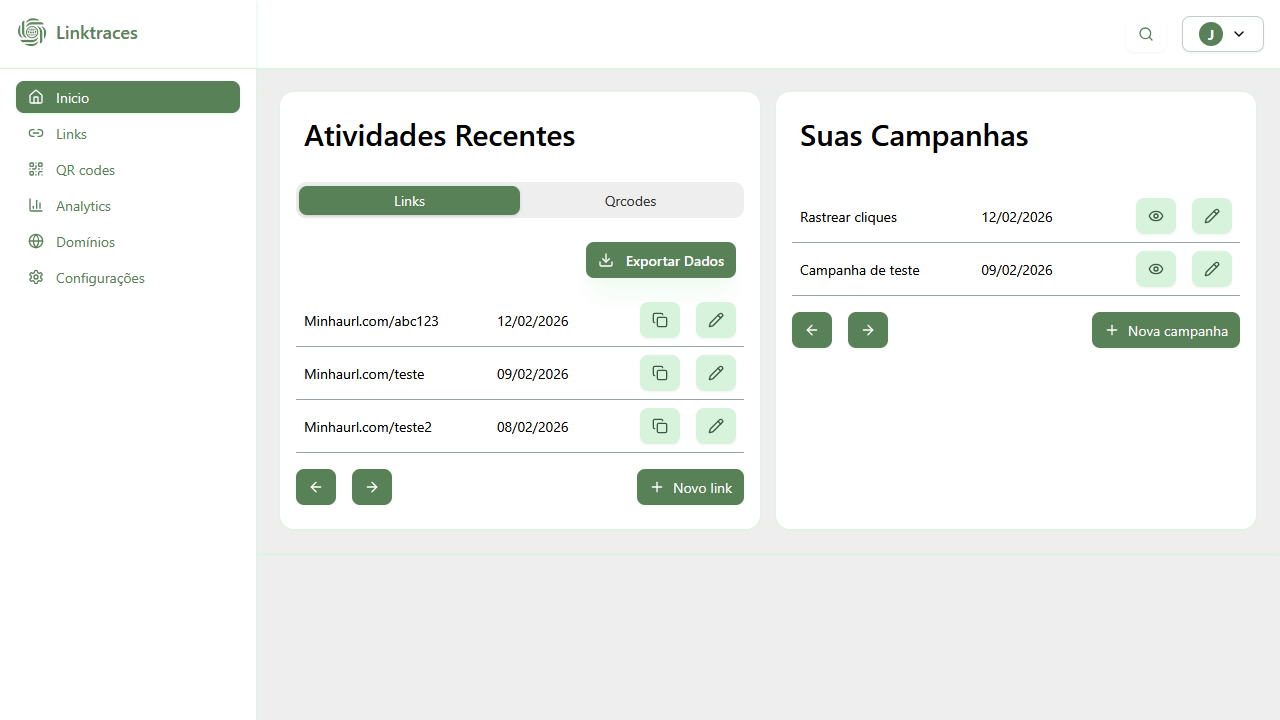
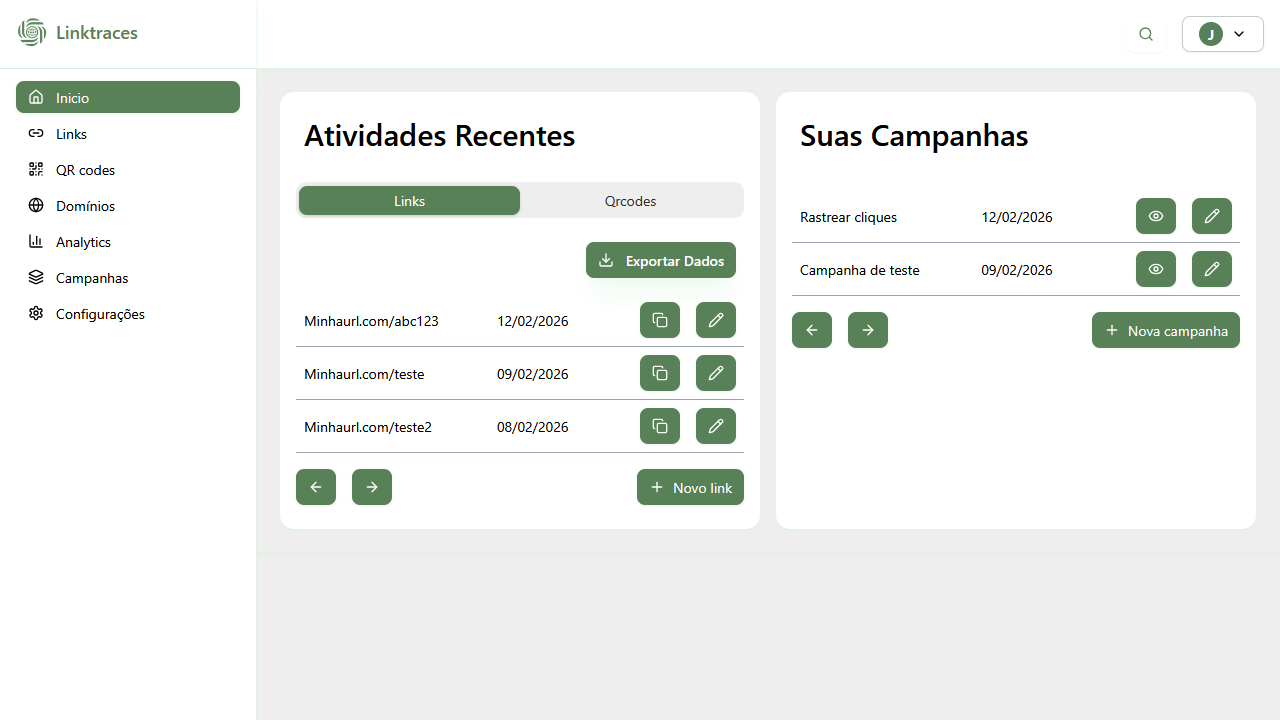
Update Dashboard

diff --git a/app/dashboard/campaigns/page.tsx b/app/dashboard/campaigns/page.tsx
@@ -1,0 +1,104 @@
+'use client';
+
+import { useRouter } from 'next/navigation';
+import { Pencil, Plus } from 'lucide-react';
+import { Button } from '@/components/ui/button';
+import { Card, CardContent, CardHeader } from '@/components/ui/card';
+import {
+  Table,
+  TableBody,
+  TableCell,
+  TableHead,
+  TableHeader,
+  TableRow
+} from '@/components/ui/table';
+import { NavbarDashboard } from '@/components/Dashboard/navbar-dashboard';
+import { NewCampaig } from '@/components/CampaignsComponents/NewCampaig';
+import { EditCampaig } from '@/components/CampaignsComponents/EditCampaig';
+
+const mycampaigns = [
+  {
+    Title: 'Campanha 1',
+    paymentStatus: 'Desativado',
+    paymentMethod: 'Luiz, matheus, carla, maria, jose camila'
+  },
+  {
+    Title: 'Campanha 2',
+    paymentStatus: 'Desativado',
+    paymentMethod:
+      'Luiz, matheus, carla, maria, jose, pedro, ana, lucas, sophia, rafael, camila'
+  },
+  {
+    Title: 'Campanha 3',
+    paymentStatus: 'Ativo',
+    paymentMethod:
+      'Hiago, maria, jose, pedro, ana, lucas, sophia, rafael, camila'
+  },
+  {
+    Title: 'Campanha 4',
+    paymentStatus: 'Ativo',
+    paymentMethod:
+      'Luiz, matheus, carla, maria, jose, pedro, ana, lucas, camila'
+  },
+  {
+    Title: 'Campanha 5',
+    paymentStatus: 'Ativo',
+    paymentMethod:
+      'Luiz, matheus, carla, maria, jose, ana, lucas, sophia, rafael'
+  }
+];
+
+export default function Campaigns() {
+  const router = useRouter();
+
+  return (
+    <div className="space-y-6 bg-background min-h-screen">
+      <NavbarDashboard />
+
+      <div className="px-4 md:px-6">
+        <Card className="flex flex-col p-4 bg-white border-none text-black w-full">
+          <CardHeader className="flex items-center w-full justify-between font-bold text-xl max-md:text-xl">
+            <h1>Suas campanhas</h1>
+
+            <NewCampaig />
+          </CardHeader>
+          <CardContent className="font-medium text-black text-xl max-md:text-base">
+            <Table>
+              <TableHeader>
+                <TableRow>
+                  <TableHead className="text-black dark:text-black font-bold w-[100px]">
+                    Nome da campanha
+                  </TableHead>
+                  <TableHead className="text-black dark:text-black font-bold">
+                    Status
+                  </TableHead>
+                  <TableHead className="text-black dark:text-black font-bold">
+                    Membros
+                  </TableHead>
+                  <TableHead className="text-black dark:text-black font-bold">
+                    Editar
+                  </TableHead>
+                </TableRow>
+              </TableHeader>
+              <TableBody>
+                {mycampaigns.map((campaign) => (
+                  <TableRow key={campaign.Title}>
+                    <TableCell className="font-medium">
+                      {campaign.Title}
+                    </TableCell>
+                    <TableCell>{campaign.paymentStatus}</TableCell>
+                    <TableCell>{campaign.paymentMethod}</TableCell>
+
+                    <TableCell>
+                      <EditCampaig />
+                    </TableCell>
+                  </TableRow>
+                ))}
+              </TableBody>
+            </Table>
+          </CardContent>
+        </Card>
+      </div>
+    </div>
+  );
+}

diff --git a/components/CampaignsComponents/NewCampaig.tsx b/components/CampaignsComponents/NewCampaig.tsx
@@ -1,0 +1,80 @@
+import { Button } from '@/components/ui/button';
+import {
+  Dialog,
+  DialogClose,
+  DialogContent,
+  DialogFooter,
+  DialogHeader,
+  DialogTitle,
+  DialogTrigger
+} from '@/components/ui/dialog';
+import { Input } from '@/components/ui/input';
+import { Label } from '@/components/ui/label';
+import { Card, CardContent } from '../ui/card';
+import { Plus } from 'lucide-react';
+
+export function NewCampaig() {
+  return (
+    <Dialog>
+      <form>
+        <DialogTrigger asChild>
+          <Button className="bg-foreground hover:bg-foreground/80 transition-all duration-300 cursor-pointer border-none">
+            <div className="flex items-center gap-2 text-white">
+              <Plus className="w-5 h-5" /> Nova campanha
+            </div>
+          </Button>
+        </DialogTrigger>
+        <DialogContent className="sm:max-w-sm border-none bg-white">
+          <DialogHeader>
+            <DialogTitle className="text-black dark:text-black">
+              Nova Campanha
+            </DialogTitle>
+          </DialogHeader>
+          <Card className="border-none shadow-none px-0 bg-white text-black w-full">
+            <CardContent className="px-0">
+              <Label htmlFor="name-1">Nome da campanha</Label>
+              <Input
+                className="mt-2 text-black/70 dark:text-black/70 bg-white dark:bg-white border border-black/40 placeholder:text-black/40"
+                id="name-1"
+                name="name"
+                placeholder="Dê um nome à sua campanha"
+              />
+            </CardContent>
+
+            <CardContent className="px-0">
+              <Label htmlFor="username-1">Numero de Membros</Label>
+              <Input
+                className="mt-2 text-black/70 dark:text-black/70 bg-white dark:bg-white border border-black/40 placeholder:text-black/40"
+                id="members-number"
+                name="members-number"
+                placeholder="ex:10"
+              />
+            </CardContent>
+            <CardContent className="px-0">
+              <Label htmlFor="username-1">Membros</Label>
+              <Input
+                className="mt-2 text-black/70 dark:text-black/70 bg-white dark:bg-white border border-black/40 placeholder:text-black/40"
+                id="username-1"
+                name="username"
+                placeholder="ex:lucas, ana, italo"
+              />
+            </CardContent>
+          </Card>
+          <DialogFooter>
+            <DialogClose asChild>
+              <Button className="bg-red-600 hover:bg-red-500 text-white dark:text-white cursor-pointer border-none">
+                Cancelar
+              </Button>
+            </DialogClose>
+            <Button
+              type="submit"
+              className="bg-foreground hover:bg-foreground text-white dark:text-white cursor-pointer border-none"
+            >
+              Criar Campanha
+            </Button>
+          </DialogFooter>
+        </DialogContent>
+      </form>
+    </Dialog>
+  );
+}

diff --git a/components/CampaignsComponents/EditCampaig.tsx b/components/CampaignsComponents/EditCampaig.tsx
@@ -1,0 +1,78 @@
+import { Button } from '@/components/ui/button';
+import {
+  Dialog,
+  DialogClose,
+  DialogContent,
+  DialogFooter,
+  DialogHeader,
+  DialogTitle,
+  DialogTrigger
+} from '@/components/ui/dialog';
+import { Input } from '@/components/ui/input';
+import { Label } from '@/components/ui/label';
+import { Card, CardContent } from '../ui/card';
+import { Pencil } from 'lucide-react';
+
+export function EditCampaig() {
+  return (
+    <Dialog>
+      <form>
+        <DialogTrigger asChild>
+          <Button className="bg-foreground hover:bg-foreground/80 transition-all duration-300 cursor-pointer border-none">
+            <Pencil className="w-5 h-5 text-white" />
+          </Button>
+        </DialogTrigger>
+        <DialogContent className="sm:max-w-sm border-none bg-white">
+          <DialogHeader>
+            <DialogTitle className="text-black dark:text-black">
+              Editar Campanha
+            </DialogTitle>
+          </DialogHeader>
+          <Card className="border-none shadow-none px-0 bg-white text-black w-full">
+            <CardContent className="px-0">
+              <Label htmlFor="name-1">Nome da campanha</Label>
+              <Input
+                className="mt-2 text-black/70 dark:text-black/70 bg-white dark:bg-white border border-black/40 placeholder:text-black/40"
+                id="name-1"
+                name="name"
+                placeholder="Dê um nome à sua campanha"
+              />
+            </CardContent>
+
+            <CardContent className="px-0">
+              <Label htmlFor="username-1">Numero de Membros</Label>
+              <Input
+                className="mt-2 text-black/70 dark:text-black/70 bg-white dark:bg-white border border-black/40 placeholder:text-black/40"
+                id="members-number"
+                name="members-number"
+                placeholder="ex:10"
+              />
+            </CardContent>
+            <CardContent className="px-0">
+              <Label htmlFor="username-1">Membros</Label>
+              <Input
+                className="mt-2 text-black/70 dark:text-black/70 bg-white dark:bg-white border border-black/40 placeholder:text-black/40"
+                id="username-1"
+                name="username"
+                placeholder="ex:lucas, ana, italo"
+              />
+            </CardContent>
+          </Card>
+          <DialogFooter>
+            <DialogClose asChild>
+              <Button className="bg-red-600 hover:bg-red-500 text-white dark:text-white cursor-pointer border-none">
+                Cancelar
+              </Button>
+            </DialogClose>
+            <Button
+              type="submit"
+              className="bg-foreground hover:bg-foreground text-white dark:text-white cursor-pointer border-none"
+            >
+              Criar Campanha
+            </Button>
+          </DialogFooter>
+        </DialogContent>
+      </form>
+    </Dialog>
+  );
+}

diff --git a/components/Dashboard/Activities.tsx b/components/Dashboard/Activities.tsx
@@ -115,12 +115,12 @@ export default async function Activities() {
                     </TableCell>
                     <TableCell className="text-right ">
                       <div className="flex flex-row justify-end items-center gap-4">
-                        <Button className="cursor-pointer text-accent dark:text-accent bg-primary dark:bg-primary hover:bg-primary/40 dark:hover:bg-primary/40 transition-all duration-300">
-                          <Copy />
+                        <Button className="bg-foreground hover:bg-foreground/80 transition-all duration-300 cursor-pointer border-none">
+                          <Copy className="w-5 h-5 text-white" />
                         </Button>
 
-                        <Button className="cursor-pointer text-accent dark:text-accent bg-primary dark:bg-primary hover:bg-primary/40 dark:hover:bg-primary/40 transition-all duration-300">
-                          <Pencil />
+                        <Button className="bg-foreground hover:bg-foreground/80 transition-all duration-300 cursor-pointer border-none">
+                          <Pencil className="w-5 h-5 text-white" />
                         </Button>
                       </div>
                     </TableCell>
@@ -166,8 +166,8 @@ export default async function Activities() {
                       {links.linkData}
                     </TableCell>
                     <TableCell className="text-right">
-                      <Button className="cursor-pointer text-accent dark:text-accent bg-primary dark:bg-primary hover:bg-primary/40 dark:hover:bg-primary/40 transition-all duration-300">
-                        <Download />
+                      <Button className="bg-foreground hover:bg-foreground/80 transition-all duration-300 cursor-pointer border-none">
+                        <Download className="w-5 h-5 text-white" />
                       </Button>
                     </TableCell>
                   </TableRow>

diff --git a/components/Dashboard/Campaigns.tsx b/components/Dashboard/Campaigns.tsx
@@ -40,12 +40,12 @@ export default async function Campaigns() {
                 <TableCell className="font-medium">{links.linkData}</TableCell>
                 <TableCell className="text-right ">
                   <div className="flex flex-row justify-end items-center gap-4">
-                    <Button className="cursor-pointer text-accent dark:text-accent bg-primary dark:bg-primary hover:bg-primary/40 dark:hover:bg-primary/40 transition-all duration-300">
-                      <Eye />
+                    <Button className="bg-foreground hover:bg-foreground/80 transition-all duration-300 cursor-pointer border-none">
+                      <Eye className="w-5 h-5 text-white" />
                     </Button>
 
-                    <Button className="cursor-pointer text-accent dark:text-accent bg-primary dark:bg-primary hover:bg-primary/40 dark:hover:bg-primary/40 transition-all duration-300">
-                      <Pencil />
+                    <Button className="bg-foreground hover:bg-foreground/80 transition-all duration-300 cursor-pointer border-none">
+                      <Pencil className="w-5 h-5 text-white" />
                     </Button>
                   </div>
                 </TableCell>

diff --git a/components/AppSidebar.tsx b/components/AppSidebar.tsx
@@ -29,7 +29,7 @@ const menuItems = [
   { title: 'QR codes', url: '/dashboard/qrcode', icon: QrCode },
   { title: 'Domínios', url: '/dashboard/domains', icon: Globe },
   { title: 'Analytics', url: '/dashboard/analytics', icon: BarChart3 },
-  { title: 'Campanhas', url: '/dashboard/analytics', icon: Layers },
+  { title: 'Campanhas', url: '/dashboard/campaigns', icon: Layers },
   { title: 'Configurações', url: '/dashboard/settings', icon: Settings }
 ];
 
